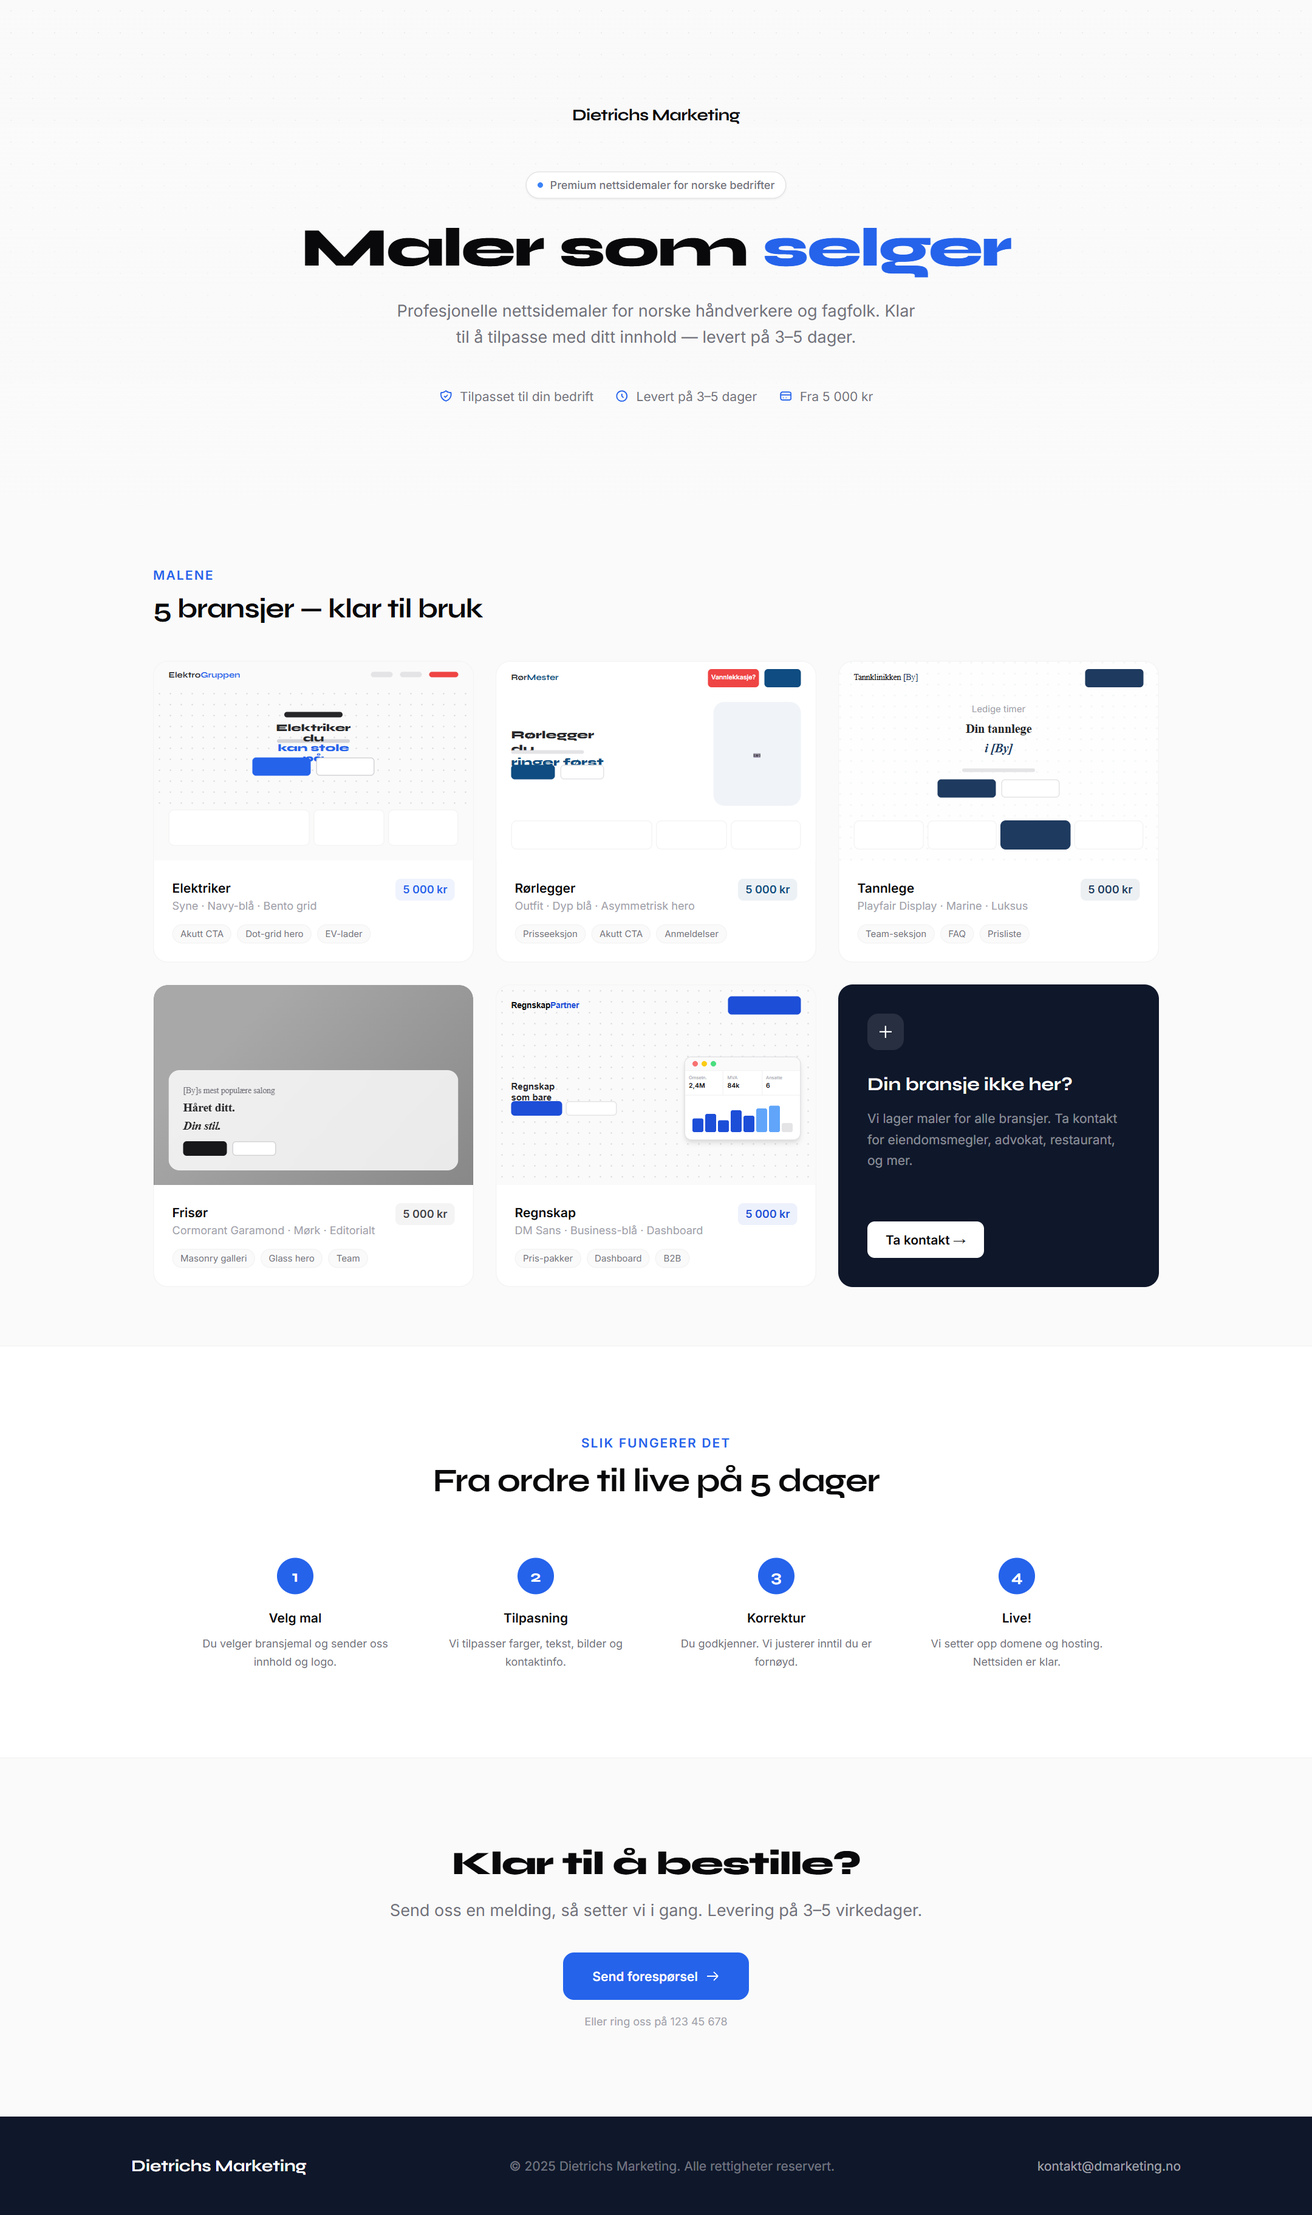
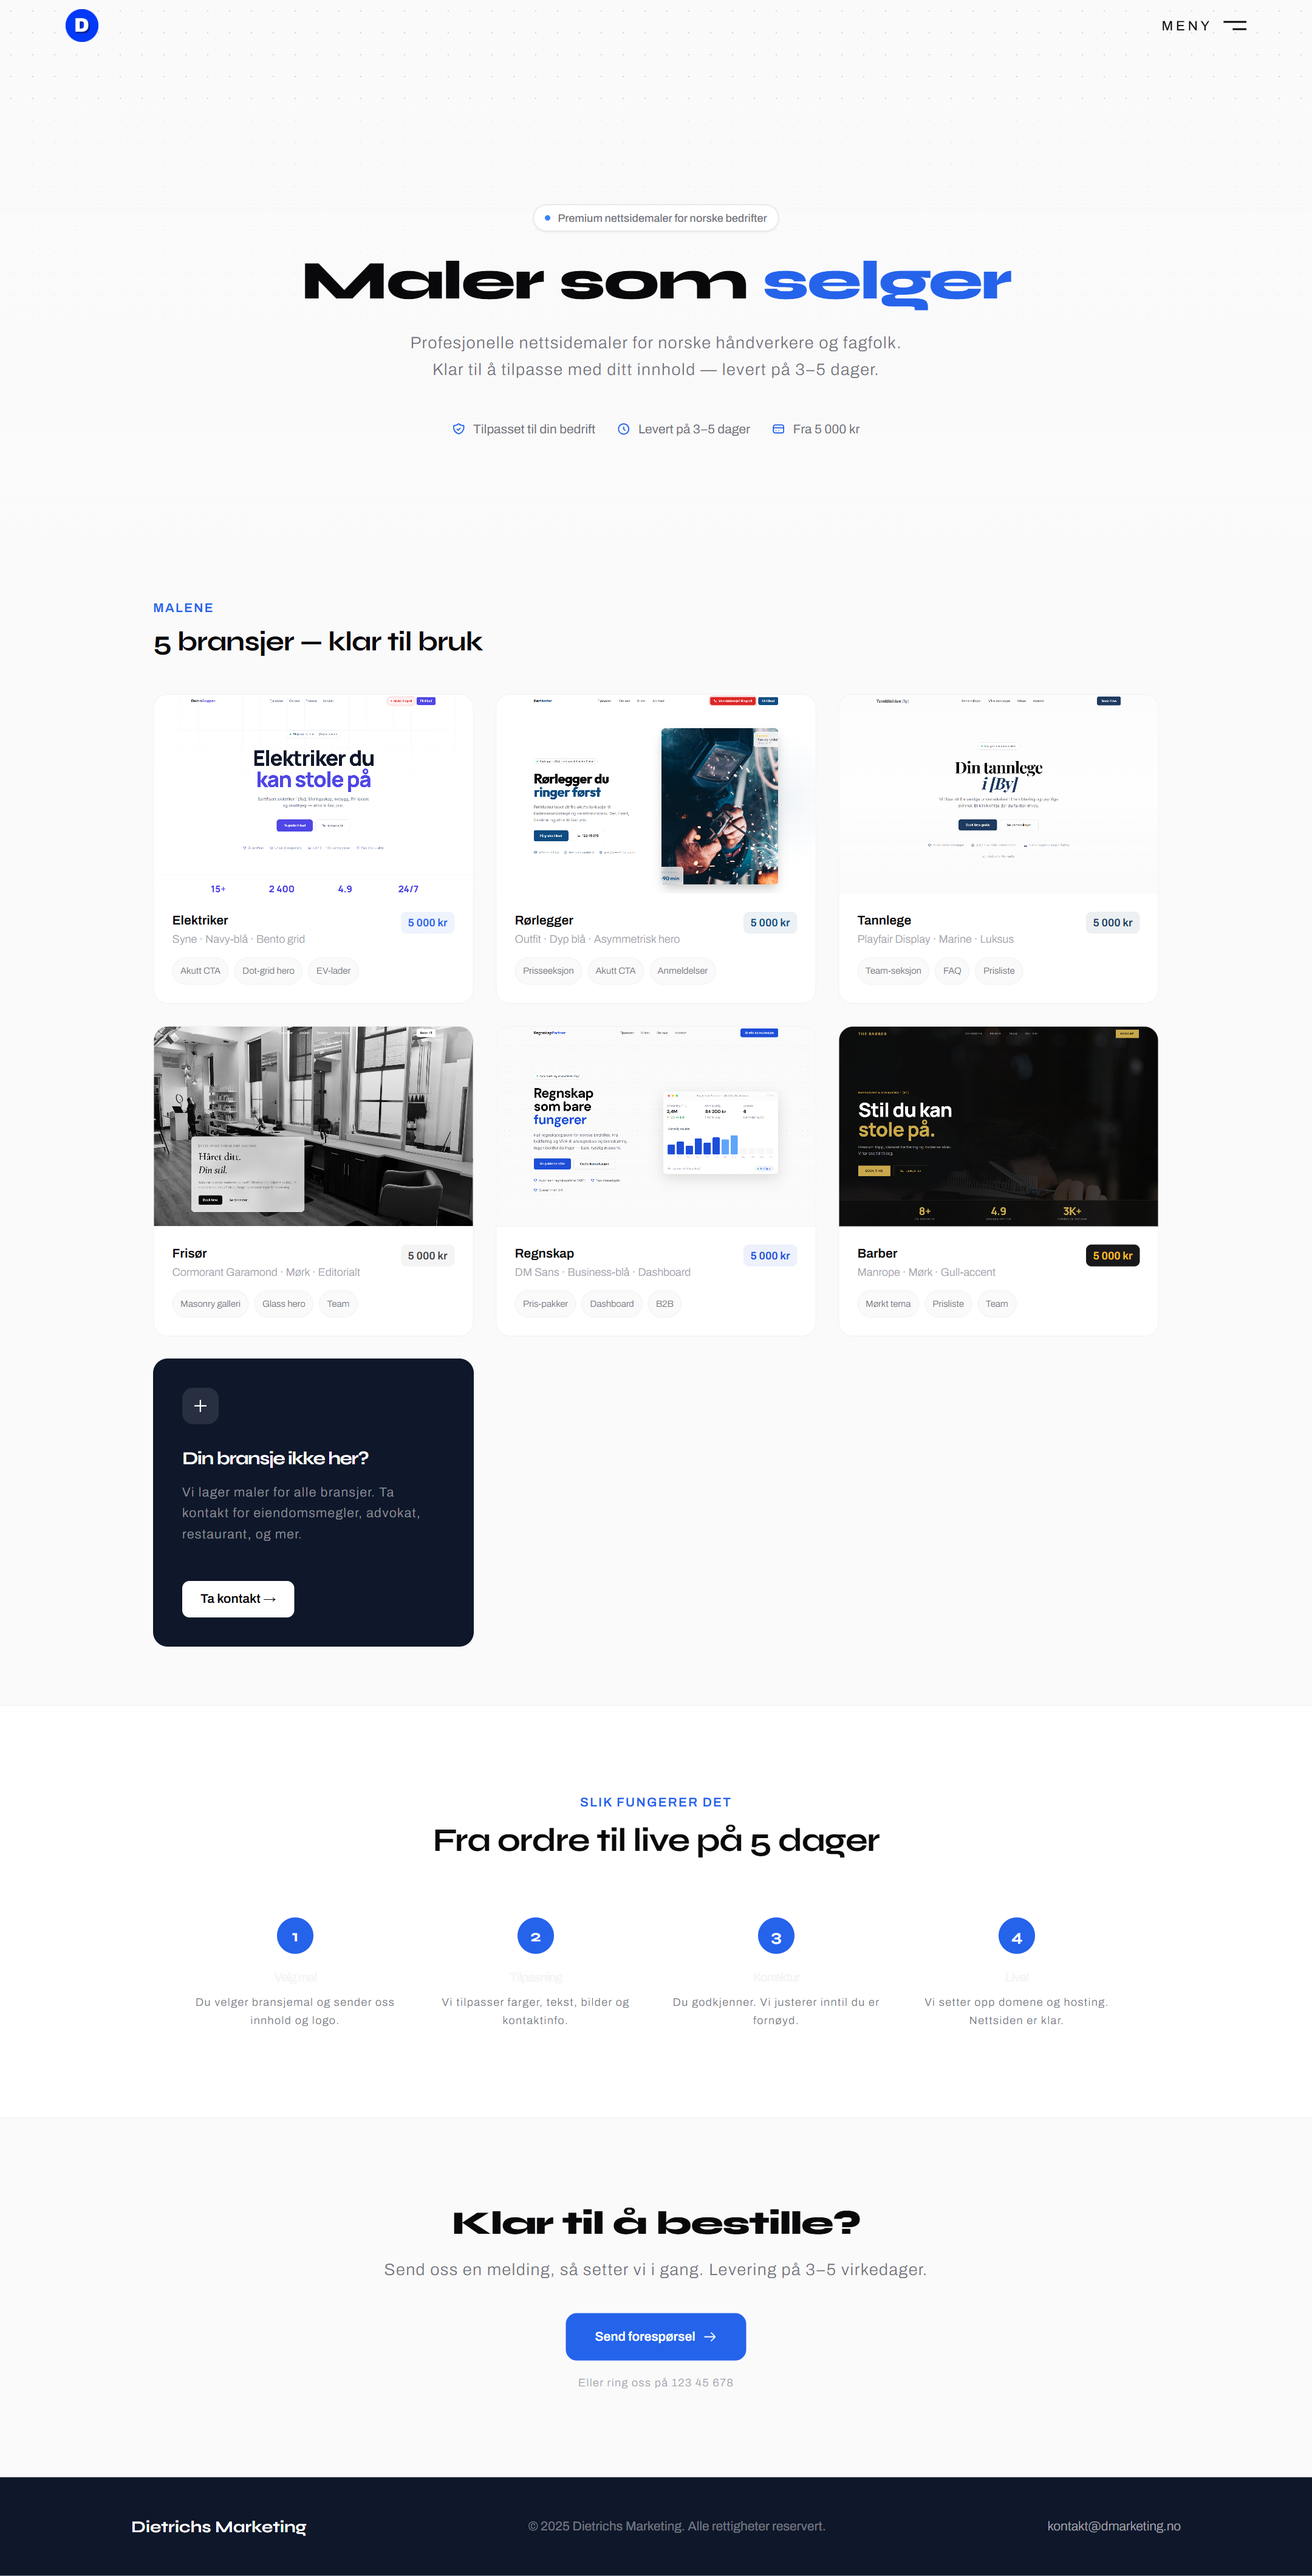
Update barber hero image and refresh gallery screenshots

diff --git a/maler/barber.html b/maler/barber.html
@@ -88,7 +88,7 @@
 <!-- HERO -->
 <section class="hero">
   <img
-    src="bilder/frisor/delfina-pan-wJoB8D3hnzc-unsplash.jpg"
+    src="bilder/frisor/nate-johnston-tgPrIYnW3g4-unsplash.jpg"
     onerror="this.src='https://images.unsplash.com/photo-1503951914875-452162b0f3f1?w=1600&q=85'"
     alt="The Barber"
     class="hero-img"
